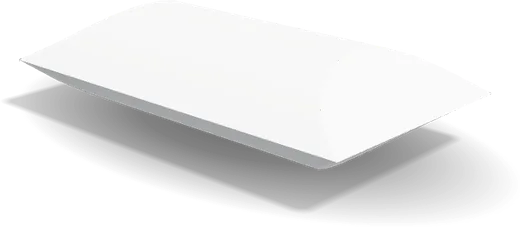
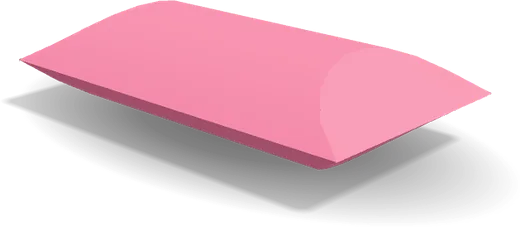
Template cards in colour, and no shadow halo around a flat sheet
The card pictures and share images now show each box printed in a colour
suited to its use (a teal cosmetics carton, a bakery-red gable box, an
emerald rigid box) instead of plain white board; corrugated boxes stay
kraft. The colours live in the shared shot list, which both the picture
and clip renderers read.

The contact shadow under the model was sized at 1.35 times its footprint,
so a flat sheet got a large dark ellipse round it that made the background
read as a tabletop, in the Studio and in the card clips. It now spreads
and darkens with how tall the model stands: a box keeps its shadow, a flat
sheet gets only a faint rim.

Claude-Session: https://claude.ai/code/session_01QeanJ5XcsmBb9fnQSqUjJ7

diff --git a/src/components/studio/carton-renderer.ts b/src/components/studio/carton-renderer.ts
@@ -320,7 +320,12 @@ export function createCartonRenderer(canvas: HTMLCanvasElement) {
     floor.scale.setScalar(size * 8);
     contact.visible = showFloor;
     contact.position.set((minX + maxX) / 2, groundY + size * 0.0005, (minZ + maxZ) / 2);
-    contact.scale.set((maxX - minX) * 1.35 + size * 0.06, (maxZ - minZ) * 1.35 + size * 0.06, 1);
+    // A contact shadow spreads with how tall the carton stands, not how much
+    // floor it covers: a flat sheet lying on the floor gets only a faint rim,
+    // not a halo that makes the background look like a tabletop.
+    const standing = Math.min(1, (maxY - minY) / (size * 0.12));
+    contact.scale.set((maxX - minX) * (1 + 0.35 * standing) + size * 0.06 * standing, (maxZ - minZ) * (1 + 0.35 * standing) + size * 0.06 * standing, 1);
+    contact.material.opacity = 0.5 * (0.3 + 0.7 * standing);
 
     const azimuth = scene.yaw + 0.85;
     const elevation = 1.0;
